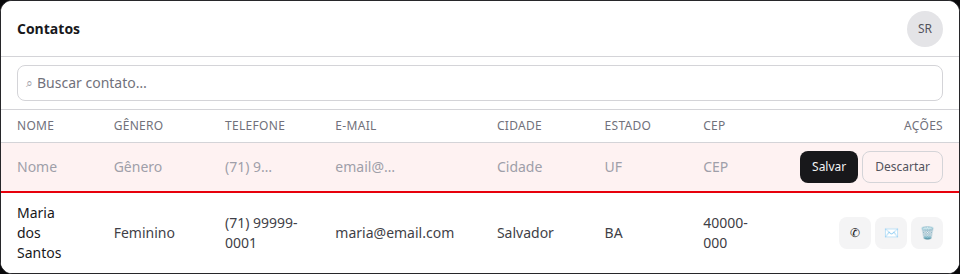
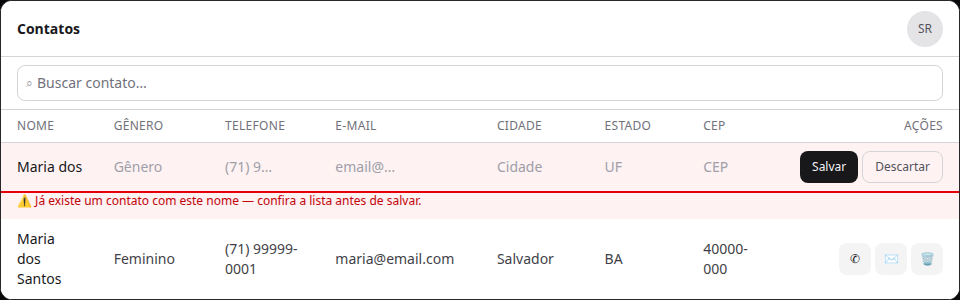
plan(C139): nome obrigatório e único na criação, com aviso de conflito

diff --git a/docs/plans/contatos-pagina-da-entidade-contact-ui-draft.html b/docs/plans/contatos-pagina-da-entidade-contact-ui-draft.html
@@ -366,7 +366,7 @@
                 <td class="px-4 py-2">
                   <input
                     class="w-full bg-transparent text-sm outline-none placeholder:text-zinc-400"
-                    placeholder="Nome"
+                    value="Maria dos Santos"
                   />
                 </td>
                 <td class="px-4 py-2">
@@ -418,6 +418,12 @@
                       Descartar
                     </button>
                   </div>
+                </td>
+              </tr>
+              <!-- conflito de nome: mensagem amigável, o que foi digitado permanece -->
+              <tr class="bg-red-50">
+                <td colspan="8" class="px-4 pb-2.5 text-xs font-medium text-red-700">
+                  ⚠ Já existe um contato com este nome — confira a lista antes de salvar.
                 </td>
               </tr>
               <tr class="bg-white">

diff --git a/docs/plans/contatos-pagina-da-entidade-contact.md b/docs/plans/contatos-pagina-da-entidade-contact.md
@@ -32,6 +32,7 @@ O padrão que deu certo — **toda entidade de pessoa tem uma ficha `Contact`** 
 - **Ordenação:** pelas colunas relevantes (nome default, cidade, estado, e-mail) — padrão C117 (header sortable + omnibox). Sem ordenação por telefone.
 - **Edição onde se vê (desktop):** **as células de dados são inputs sem moldura** — sem borda, sem fundo, sem destaque; "somem" na célula e só mostram o valor (salva no blur ou Enter); placeholder discreto quando vazio ("Sem telefone"/"Sem e-mail"); multi-telefones empilhados um sobre o outro na célula. Mobile: toque no card abre **bottom sheet com todos os campos** editáveis (nome, gênero, telefones + adicionar, e-mail, cidade, estado, CEP), inputs full-bleed com divisórias. Mesmo padrão de escopo do `updatePersonContact` (assessor só edita ficha da carteira dele).
 - **Criação de contato:** desktop botão **"+ Criar contato" ao lado de "Colunas"** → linha vazia no topo com ações **Descartar/Salvar**; mobile **FAB de criação** (substitui o FAB de ações rápidas nesta rota; FAB de IA permanece) → bottom sheet de criação.
+- **Nome obrigatório e único na criação.** O nome é obrigatório (Salvar inativo sem nome) e **deve ser único entre as fichas** — comparação normalizada (sem espaços duplicados, sem caixa). Conflito na criação → **aviso claro ao usuário** ("Já existe um contato com este nome"), mantendo tudo o que foi digitado na linha nova / sheet.
 - **Ações por linha:** **Mensagem no WhatsApp** (`wa.me`, só com telefone — `whatsAppHrefForPhone`), **Enviar e-mail** (`mailto`, só com e-mail), **Apagar contato** — com **alerta de confirmação que lista o contato e todas as entidades linkadas a ele** (liderança, dobradinha, assessor, apoiador, conta de acesso…) que serão removidas.
 - **Escopo de acesso = `canReadContacts` existente:** assessor vê só fichas da carteira (via lideranças/dobradinhas/apoiadores do escopo); coordenador/candidato veem tudo. **Leader não acessa** (lockdown — a ferramenta "Meus contatos" do leader fica intocada).
 - **Nenhuma migration.** `Contact` já existe; nada no schema muda.
@@ -43,6 +44,7 @@ O padrão que deu certo — **toda entidade de pessoa tem uma ficha `Contact`** 
 - Omnibox com facet por propriedade (gênero com os 4 valores, estado, cidade, ausências) + vínculos (Lideranças/Dobradinhas/Assessores/Equipe) + busca geral por nome/e-mail/qualquer telefone + ordenação (nome/cidade/estado/e-mail). **Chips do filtro dentro do input.**
 - Edição where-you-see: desktop células são inputs **sem moldura** (somem na célula; salva no blur/Enter), telefones múltiplos empilhados; mobile sheet com todos os campos, CEP incluso. Escopo do ator respeitado.
 - Criação: desktop "+ Criar contato" ao lado de "Colunas" (linha vazia + Descartar/Salvar); mobile FAB (no lugar do de ações rápidas, IA permanece) → bottom sheet.
+- Criação exige nome (Salvar inativo sem nome); nome único (comparação normalizada); conflito → mensagem amigável mantendo o que foi digitado.
 - Ações por linha: WhatsApp (só com telefone), e-mail (só com e-mail), Apagar contato com alerta listando as entidades linkadas — **no desktop e no mobile** (card + sheet de edição).
 - Mobile: card mostra só telefone principal; "Cidade · Estado"; sem "Sem e-mail"; omnibox edge-to-edge sem bordas.
 - Leader não acessa a rota; "Meus contatos" do leader intacta.
@@ -55,7 +57,7 @@ O padrão que deu certo — **toda entidade de pessoa tem uma ficha `Contact`** 
 ## Direção no codebase (hipótese)
 
 - **Áreas prováveis:** rota nova `src/app/(campaign)/campanha/(app)/contatos/` (ver Questões — decidido: A, mover o leader tool); shells do Pass 2 W1 (URL state, omnibox, tabela, cards, paginação); utilitários de domínio já existentes (`canReadContacts` em `src/utilities/access/contacts.ts`, `contactIdentity.ts`, `contactPhoneLocks.ts`, `src/lib/phone.ts` com `whatsAppHrefForPhone`/`formatBrazilianPhoneInput`).
-- **Precedente a olhar:** C116/C130 (células editáveis in-place + célula de contato), C117 (ordenação header + omnibox), C125 (facet de ausência), C112 (multi-telefone), C100 (lista de pessoas como referência estrutural), B18 (filtros salvos — padrão disponível, não prometido no v1), `updatePersonContact` (`src/app/(campaign)/campanha/actions/person.ts` — padrão de escopo de edição de ficha), **apagar com manifest de vínculos** (precedente do `personDelete`/delete de pessoa de C100 — reusar o contrato "o que a remoção leva junto" para o alerta).
+- **Precedente a olhar:** C116/C130 (células editáveis in-place + célula de contato), C117 (ordenação header + omnibox), C125 (facet de ausência), C112 (multi-telefone), C100 (lista de pessoas como referência estrutural), B18 (filtros salvos — padrão disponível, não prometido no v1), `updatePersonContact` (`src/app/(campaign)/campanha/actions/person.ts` — padrão de escopo de edição de ficha), `assertStateDeputyNameAvailable` (`src/utilities/stateDeputy/nameInvariant.ts` — padrão de checagem de disponibilidade de nome normalizado, reusar para o conflito de nome na criação; `Contact.name` já é `required` no schema, a unicidade é checagem de app, sem índice — mantém "nenhuma migration"), **apagar com manifest de vínculos** (precedente do `personDelete`/delete de pessoa de C100 — reusar o contrato "o que a remoção leva junto" para o alerta).
 - **Risco de acoplamento:** a edição da ficha deve preservar o escopo (assessor só a carteira) e os invariantes do `Contact` (normalização de telefone, nome de dobradinha vinculada); a rota `contatos` hoje pertence ao leader tool — **mover para `/campanha/meus-contatos`** exige atualizar `LEADER_CONTACTS_HOME` (`src/lib/campaignPaths.ts`) e o catálogo `campaignPageChrome`; leader lockdown é o limite da rota; facets de vínculo precisam dos joins existentes (leadership/stateDeputy/campaignUser por ficha) — não podem vazar escopo de assessor.
 
 ## Dependências
@@ -73,6 +75,7 @@ O padrão que deu certo — **toda entidade de pessoa tem uma ficha `Contact`** 
 ## Rabbit holes de produto
 
 - **"Só completar" com colunas de capacidade.** Se alguém adicionar "Lidera/Assessora/Dobra" como coluna, vira a página de Pessoas de novo. **Corte:** ficha pura; vínculos só como facet da omnibox.
+- **"Só completar" com unicidade de nome aplicada ao import CSV.** A base real já pode ter duas "Maria Silva" com telefones diferentes (import dedupa por telefone); bloquear nome no import quebraria o lote. **Corte:** a regra vale só para a criação/edição manual na página; sem dedupe retroativo.
 - **"Só completar" com edição em massa.** Editar várias fichas de uma vez = spreadsheet mode sem pedido. **Corte:** edição in-place de uma ficha por vez.
 - **"Só completar" com a busca virando filtro por município.** Município não é propriedade da ficha `Contact` (é do vínculo). **Corte:** facet de cidade/estado (texto da ficha), não de município de capacidade.
 - **"Só completar" com copiar telefone nas ações.** A mesa não pediu; WhatsApp + e-mail + apagar cobrem o job. **Corte:** sem ação extra no v1.
